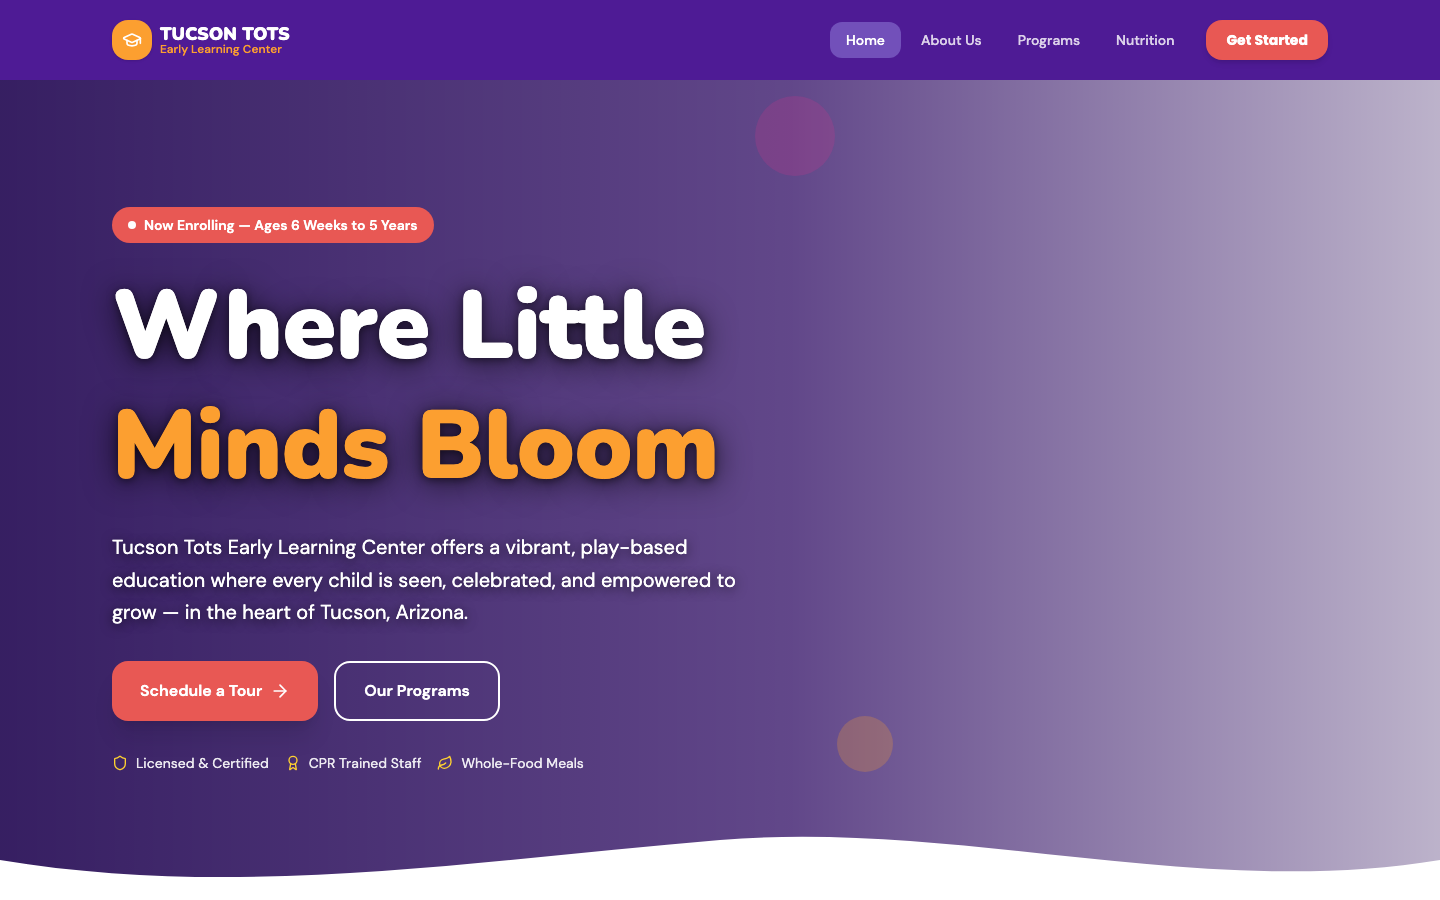
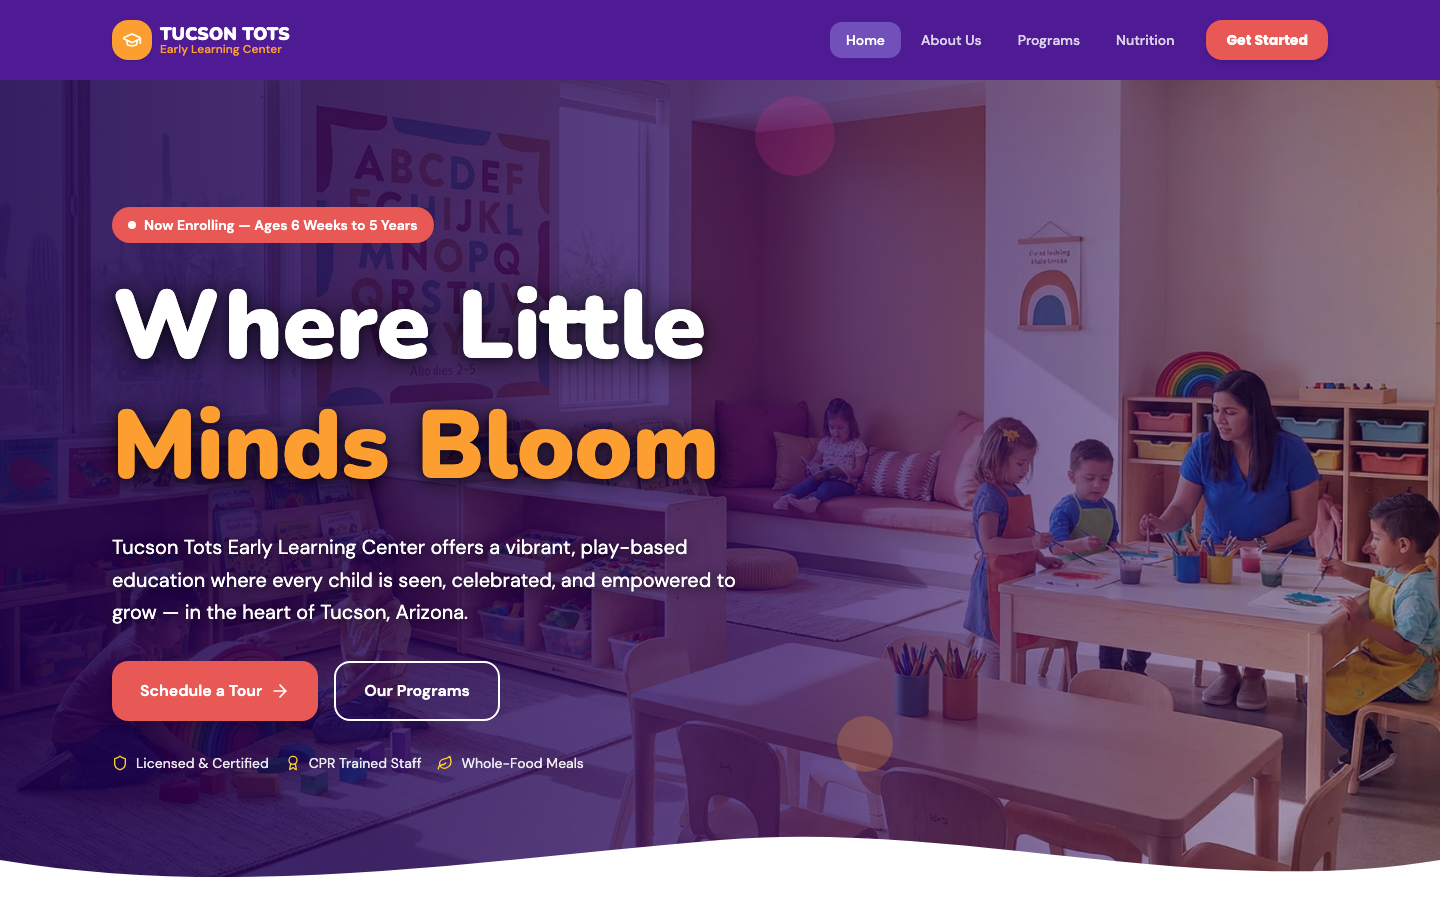
Redesign team to 2x2 grid with side-by-side layout, remove Mazen, fix green text
- Team: remove Mazen Cheikh, 4 members in 2x2 grid with photo left + text right
- Fix hardcoded oklch green on "every" and "perform" to use text-primary
- Update Tucson Tots hero with proper screenshot (includes background image)

diff --git a/client/src/components/Team.tsx b/client/src/components/Team.tsx
@@ -1,15 +1,12 @@
 /*
  * DESIGN: Institutional — Team Section
- * Dark background. Clean team cards.
+ * 2x2 grid with photo + text side by side.
  * Photos: grayscale on desktop until hover.
- * 5 members: grid layout.
- * Subtitle clarifies this is not the full team.
  */
 import { motion, useInView } from "framer-motion";
 import { useRef } from "react";
 
 export const team = [
-  /* ── Row 1 ── */
   {
     name: "Reza Amari, M.Mgt.",
     role: "Founder & Chief Executive Officer",
@@ -22,7 +19,6 @@ export const team = [
     bio: "Oversees all technical architecture, platform decisions, and development standards. Ensures every project is built on modern, scalable infrastructure that performs.",
     image: "https://d2xsxph8kpxj0f.cloudfront.net/310519663407421710/CU5JQUQHP3FutNoS5xA4np/jason-bruce_24906696.png",
   },
-  /* ── Row 2 ── */
   {
     name: "Brian Lee",
     role: "Lead Developer & Technical Architect",
@@ -34,12 +30,6 @@ export const team = [
     role: "Lead UX Designer & Front-End Developer",
     bio: "Designs user interfaces and builds responsive front-end experiences. Translates wireframes into accessible, pixel-perfect code that meets WCAG standards across all devices.",
     image: "/images/team-kathrina.png",
-  },
-  {
-    name: "Mazen Cheikh",
-    role: "Director of Compliance & Accessibility",
-    bio: "Oversees WCAG 2.1 AA, ADA Title II, and Section 508 compliance across all projects. Conducts accessibility audits, remediation planning, and standards documentation.",
-    image: "/images/team-mazen.png",
   },
 ];
 
@@ -53,26 +43,27 @@ export function TeamCard({ member, index }: { member: (typeof team)[0]; index: n
       initial={{ opacity: 0, y: 30 }}
       animate={isInView ? { opacity: 1, y: 0 } : {}}
       transition={{ duration: 0.6, delay: index * 0.08, ease: [0.16, 1, 0.3, 1] }}
-      className="group"
+      className="group flex gap-5 sm:gap-6"
     >
-      <div className="relative overflow-hidden aspect-square mb-4 rounded-lg">
+      <div className="relative overflow-hidden w-28 h-28 sm:w-36 sm:h-36 flex-shrink-0 rounded-lg">
         <img
           src={member.image}
           alt={member.name}
           className="w-full h-full object-cover object-top transition-all duration-700 md:grayscale md:group-hover:grayscale-0 md:group-hover:scale-105"
         />
-        {/* Accent bar: always visible on mobile, hover-revealed on desktop */}
         <div className="absolute bottom-0 left-0 right-0 h-1 bg-[oklch(0.72_0.12_75)] md:scale-x-0 md:group-hover:scale-x-100 transition-transform duration-500 origin-left" />
       </div>
-      <h4 className="font-[var(--font-display)] font-semibold text-foreground text-sm md:text-base tracking-tight">
-        {member.name}
-      </h4>
-      <p className="text-primary text-xs font-medium mt-0.5 mb-2">
-        {member.role}
-      </p>
-      <p className="text-muted-foreground text-xs leading-relaxed">
-        {member.bio}
-      </p>
+      <div className="flex flex-col justify-center min-w-0">
+        <h4 className="font-[var(--font-display)] font-semibold text-foreground text-sm md:text-base tracking-tight">
+          {member.name}
+        </h4>
+        <p className="text-primary text-xs font-medium mt-0.5 mb-2">
+          {member.role}
+        </p>
+        <p className="text-muted-foreground text-xs leading-relaxed">
+          {member.bio}
+        </p>
+      </div>
     </motion.div>
   );
 }
@@ -115,7 +106,7 @@ export default function Team() {
             className="mt-4 md:mt-0 max-w-xs"
           >
             <p className="text-muted-foreground text-sm leading-relaxed">
-              Our leadership team brings together strategy, compliance, design, development, and delivery — backed by a broader network of specialists.
+              Our leadership team brings together strategy, design, development, and delivery — backed by a broader network of specialists.
             </p>
             <p className="text-muted-foreground/60 text-xs mt-2 italic">
               Introducing our leadership — not the whole team.
@@ -123,8 +114,8 @@ export default function Team() {
           </motion.div>
         </div>
 
-        {/* Uniform 3-column grid — 2 rows of 3 */}
-        <div className="grid grid-cols-1 sm:grid-cols-2 md:grid-cols-3 gap-6 md:gap-10">
+        {/* 2x2 grid */}
+        <div className="grid grid-cols-1 sm:grid-cols-2 gap-8 md:gap-10">
           {team.map((member, i) => (
             <TeamCard key={member.name} member={member} index={i} />
           ))}

diff --git a/client/src/pages/RFP.tsx b/client/src/pages/RFP.tsx
@@ -302,7 +302,7 @@ export default function RFP() {
               transition={{ duration: 0.8, delay: 0.1, ease: [0.16, 1, 0.3, 1] }}
               className="font-[var(--font-display)] font-bold text-3xl sm:text-4xl md:text-5xl tracking-tight text-white"
             >
-              Built to <span className="text-[oklch(0.60_0.16_150)]">perform</span> from day one.
+              Built to <span className="text-primary">perform</span> from day one.
             </motion.h2>
           </motion.div>
 

diff --git a/client/src/components/Compliance.tsx b/client/src/components/Compliance.tsx
@@ -47,7 +47,7 @@ export default function Compliance() {
               className="font-[var(--font-display)] font-bold text-3xl sm:text-4xl md:text-5xl tracking-tight text-white leading-tight"
             >
               Built to meet{" "}
-              <span className="text-[oklch(0.60_0.16_150)]">every</span>{" "}
+              <span className="text-primary">every</span>{" "}
               requirement.
             </motion.h2>
 

diff --git a/client/src/pages/TeamPage.tsx b/client/src/pages/TeamPage.tsx
@@ -4,8 +4,8 @@ import Navbar from "@/components/Navbar";
 import { team, TeamCard } from "@/components/Team";
 import Footer from "@/components/Footer";
 
-const leadership = team.slice(0, 3);
-const technical = team.slice(3);
+const leadership = team.slice(0, 2);
+const technical = team.slice(2);
 
 const tabs = [
   { id: "leadership", label: "Leadership", bg: "bg-background" },
